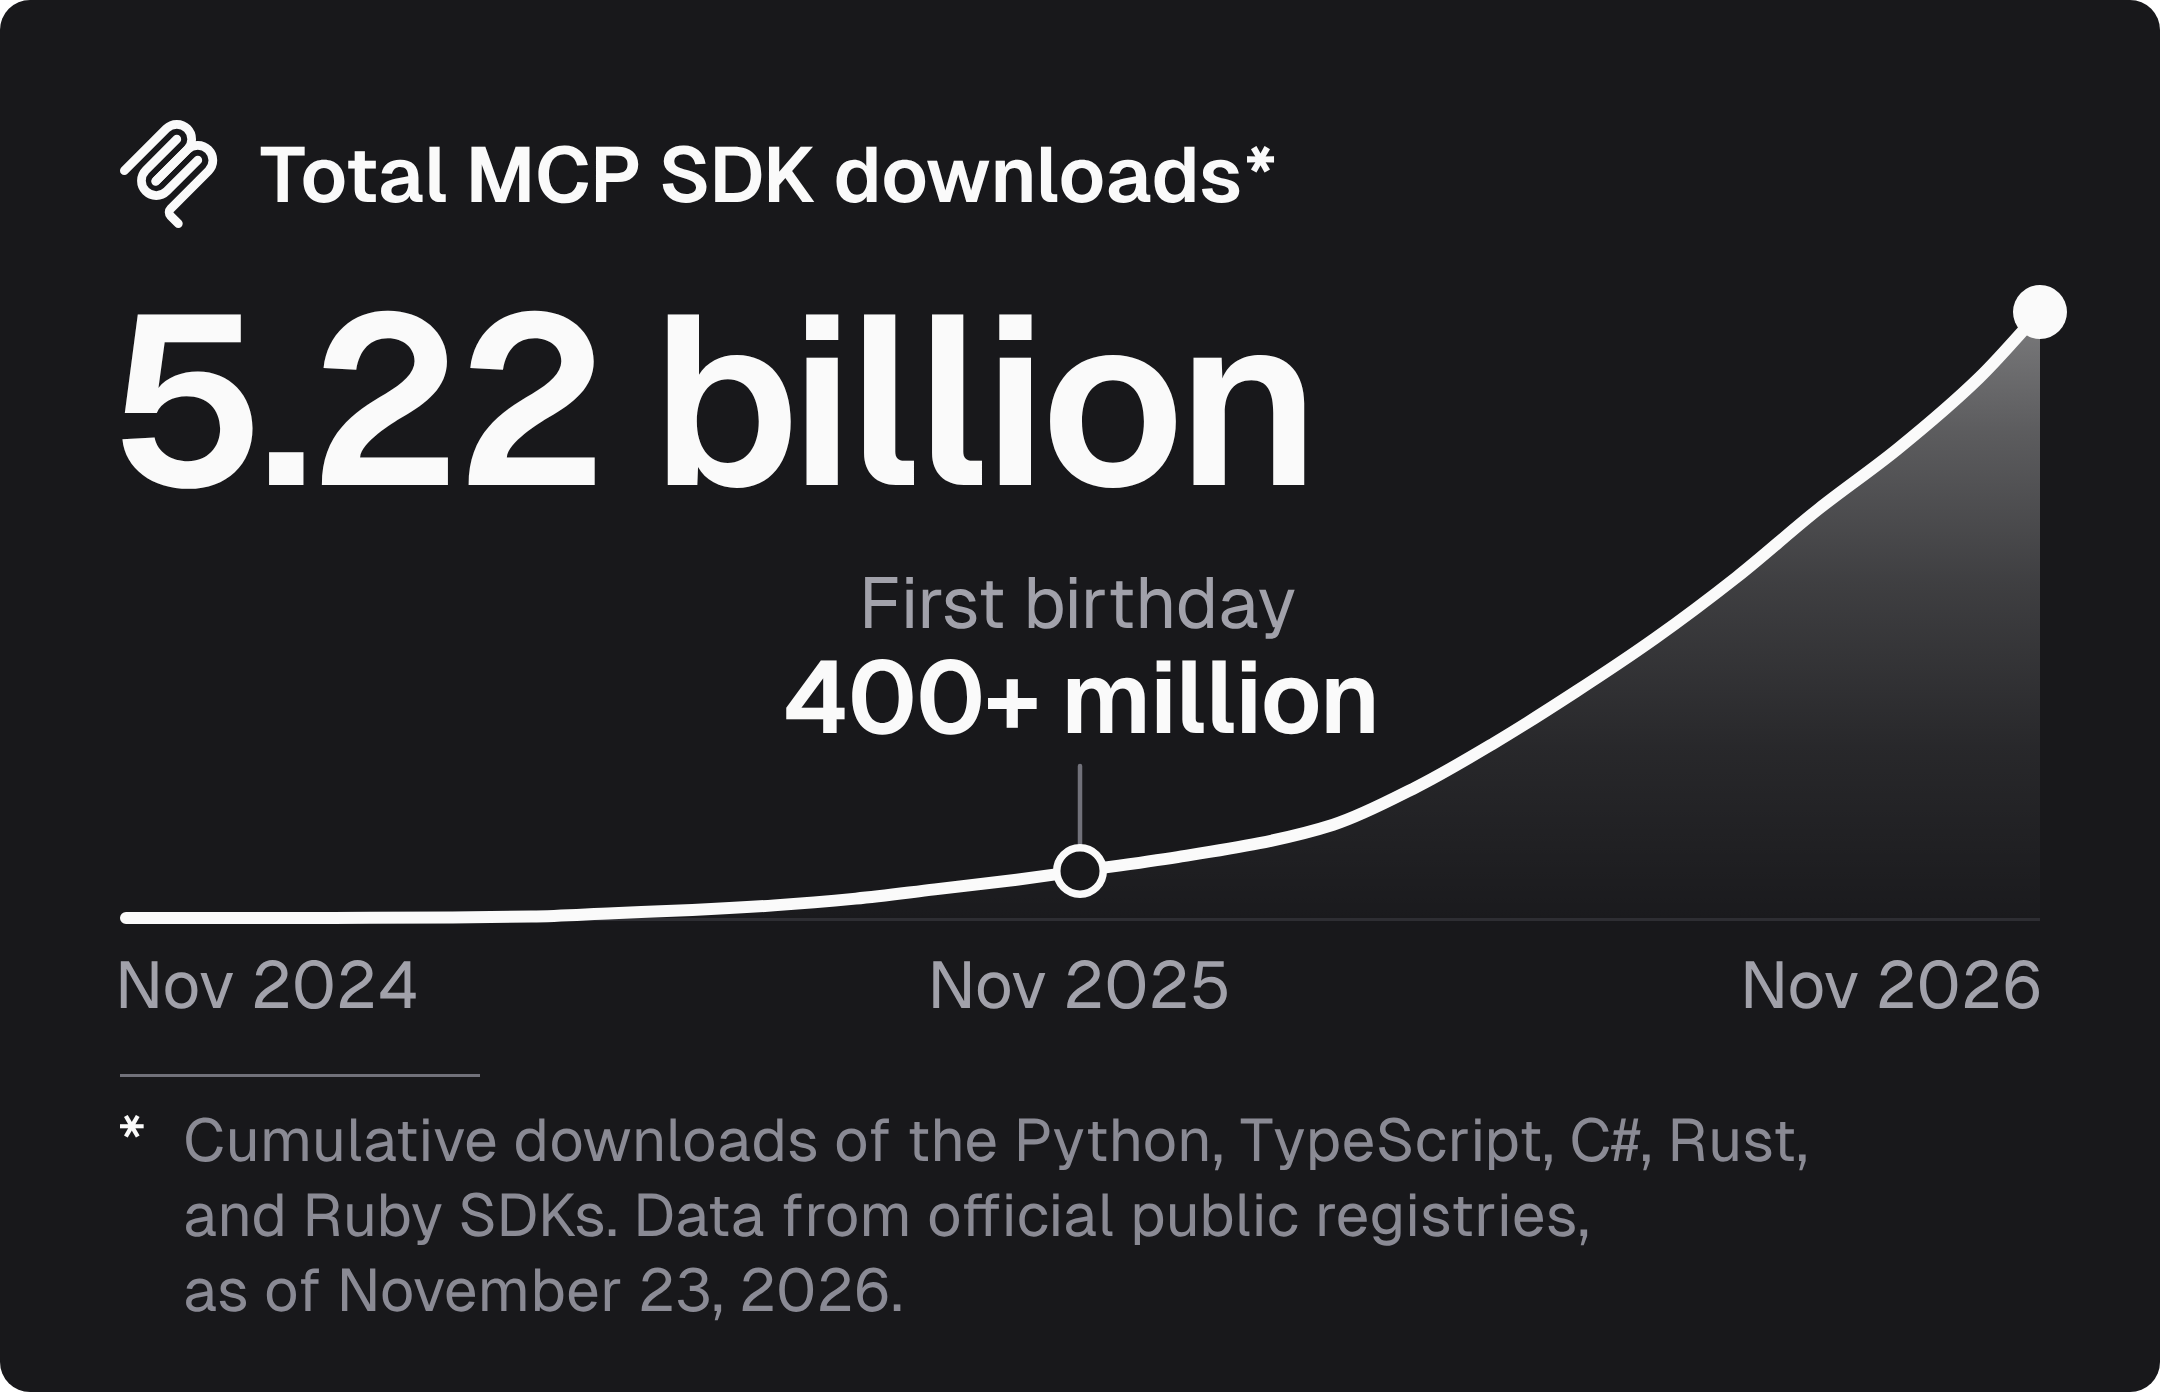
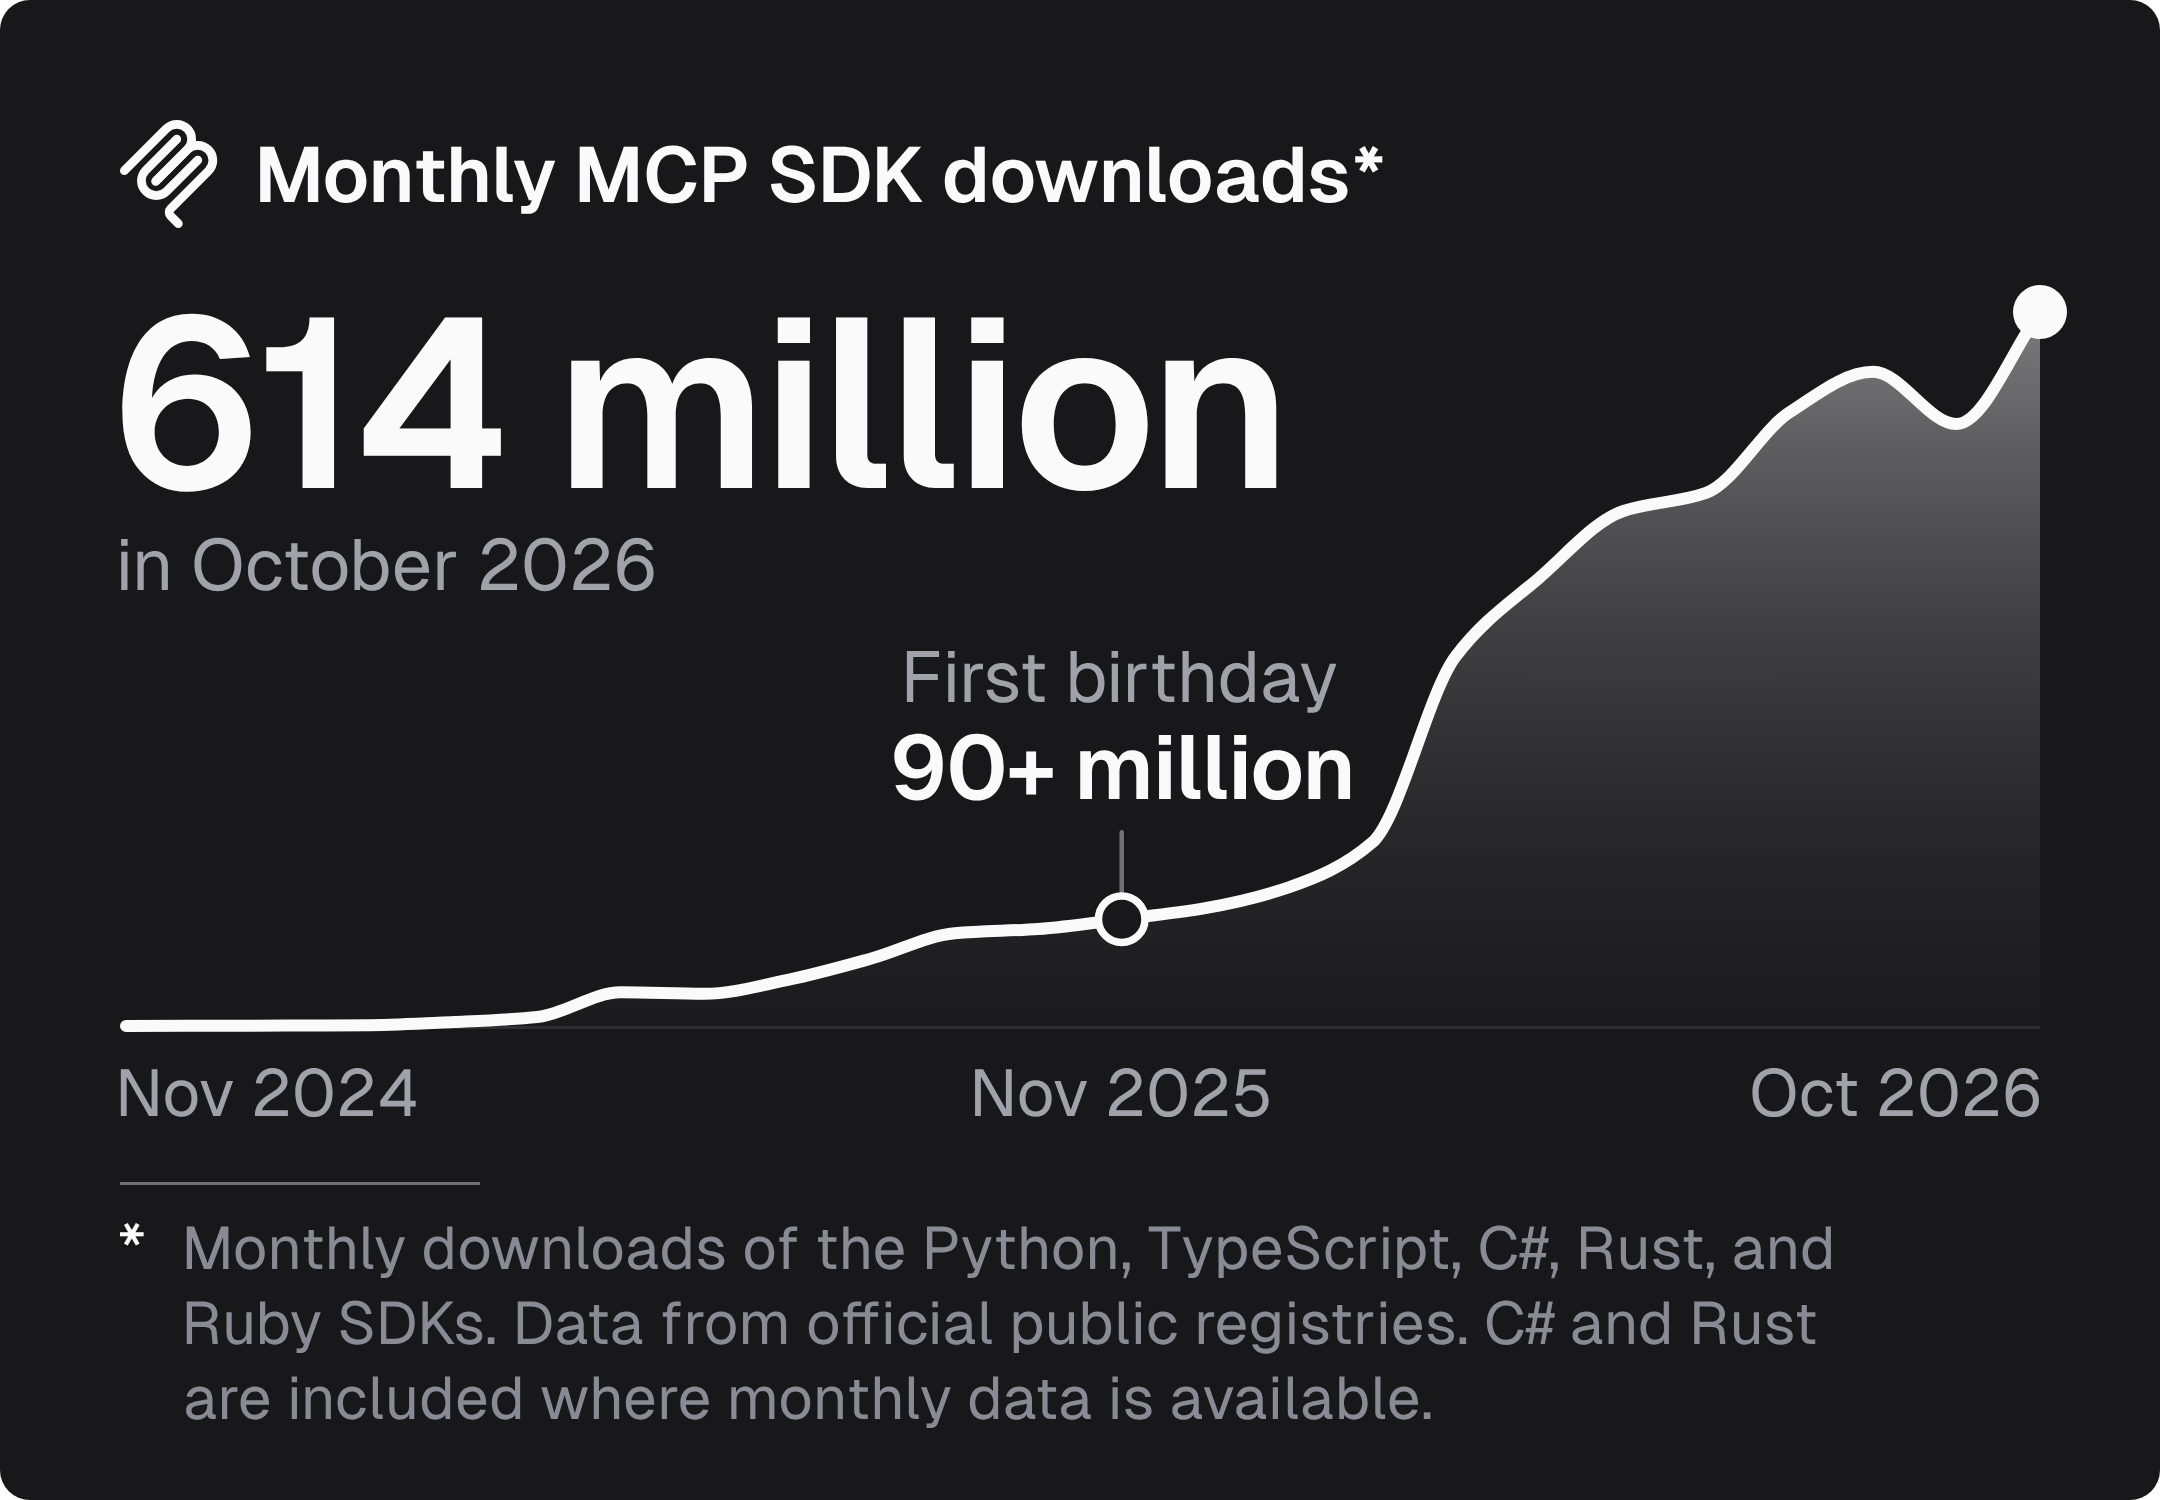
docs(blog): show monthly SDK downloads in the chart
Plot downloads for each calendar month through October 2026 instead of the
running total. The footnote notes that C# and Rust are included where
monthly data is available.

diff --git a/blog/content/posts/mcp-turns-two.md b/blog/content/posts/mcp-turns-two.md
@@ -53,8 +53,8 @@ While our first year was very much about establishing the foundations of the pro
 In fact, our SDKs just crossed 5 billion total downloads, and more than 4.5 billion of those came in the past year alone.
 
 <picture>
-  <source media="(max-width: 600px)" srcset="/posts/images/mcp-turns-two/mcp-sdk-downloads-phone.png" width="2160" height="1392">
-  <img src="/posts/images/mcp-turns-two/mcp-sdk-downloads.png" width="2160" height="1392" loading="lazy" style="max-width: 100%; height: auto" alt="Line chart of cumulative MCP SDK downloads, with a shaded gradient under the line. It climbs from zero at launch in November 2024 to more than 400 million at the first birthday and 5.22 billion as of November 23, 2026. A footnote says that the total covers the Python, TypeScript, C#, Rust, and Ruby SDKs, with data from official public registries.">
+  <source media="(max-width: 600px)" srcset="/posts/images/mcp-turns-two/mcp-sdk-downloads-phone.png" width="2160" height="1500">
+  <img src="/posts/images/mcp-turns-two/mcp-sdk-downloads.png" width="2160" height="1392" loading="lazy" style="max-width: 100%; height: auto" alt="Line chart of monthly MCP SDK downloads, with a shaded gradient under the line. It goes from near zero at launch in November 2024 to more than 90 million in November 2025, the month of the first birthday, and a high of 614 million in October 2026. A footnote says that it covers the Python, TypeScript, C#, Rust, and Ruby SDKs, with data from official public registries, and that C# and Rust are included where monthly data is available.">
 </picture>
 
 With so many builders behind that growth, we wanted to use this moment to highlight some of their most creative and ambitious work.
